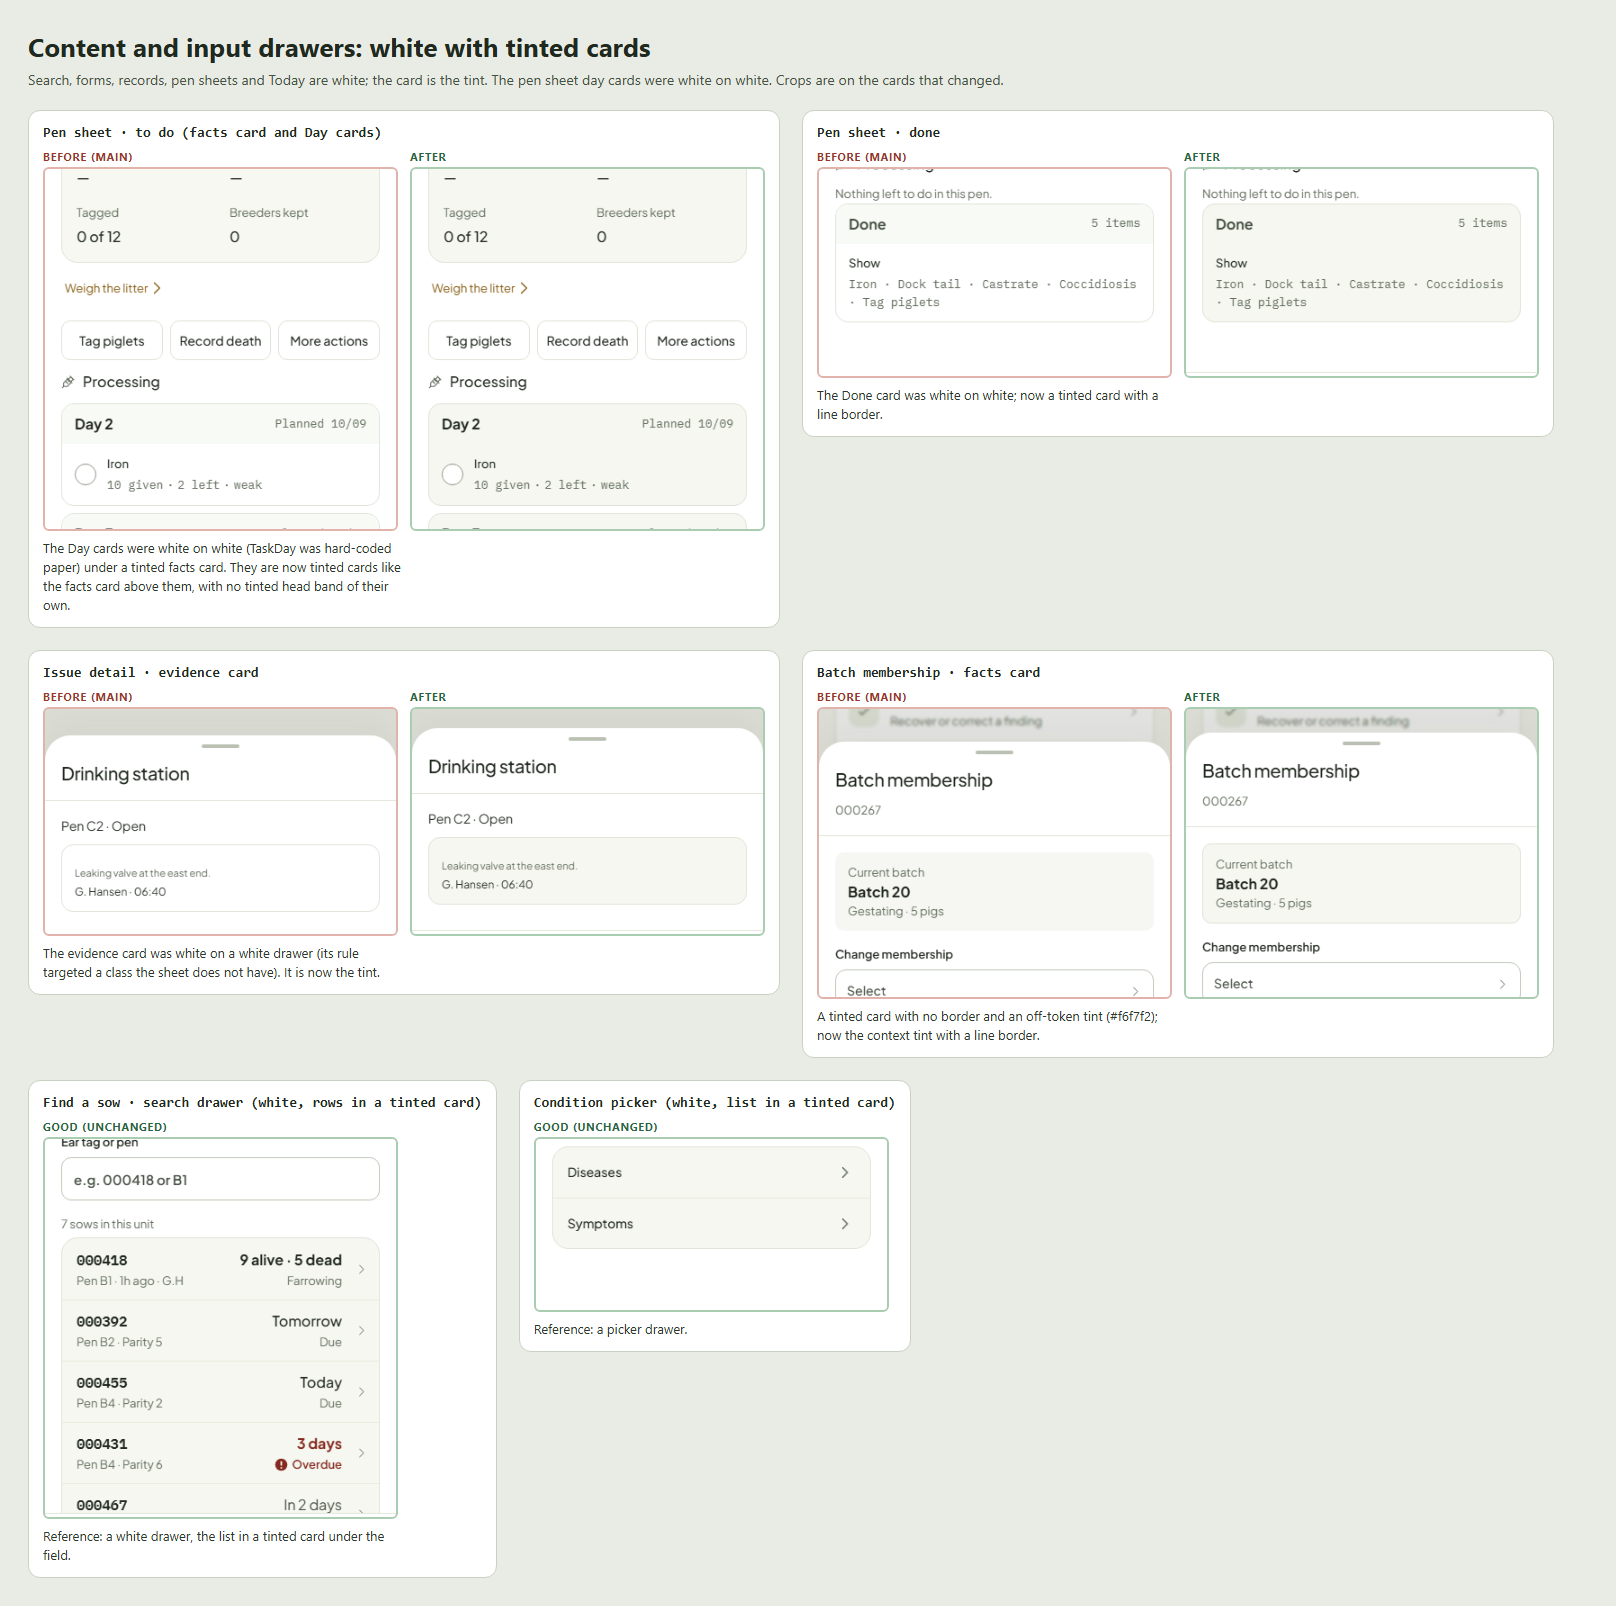
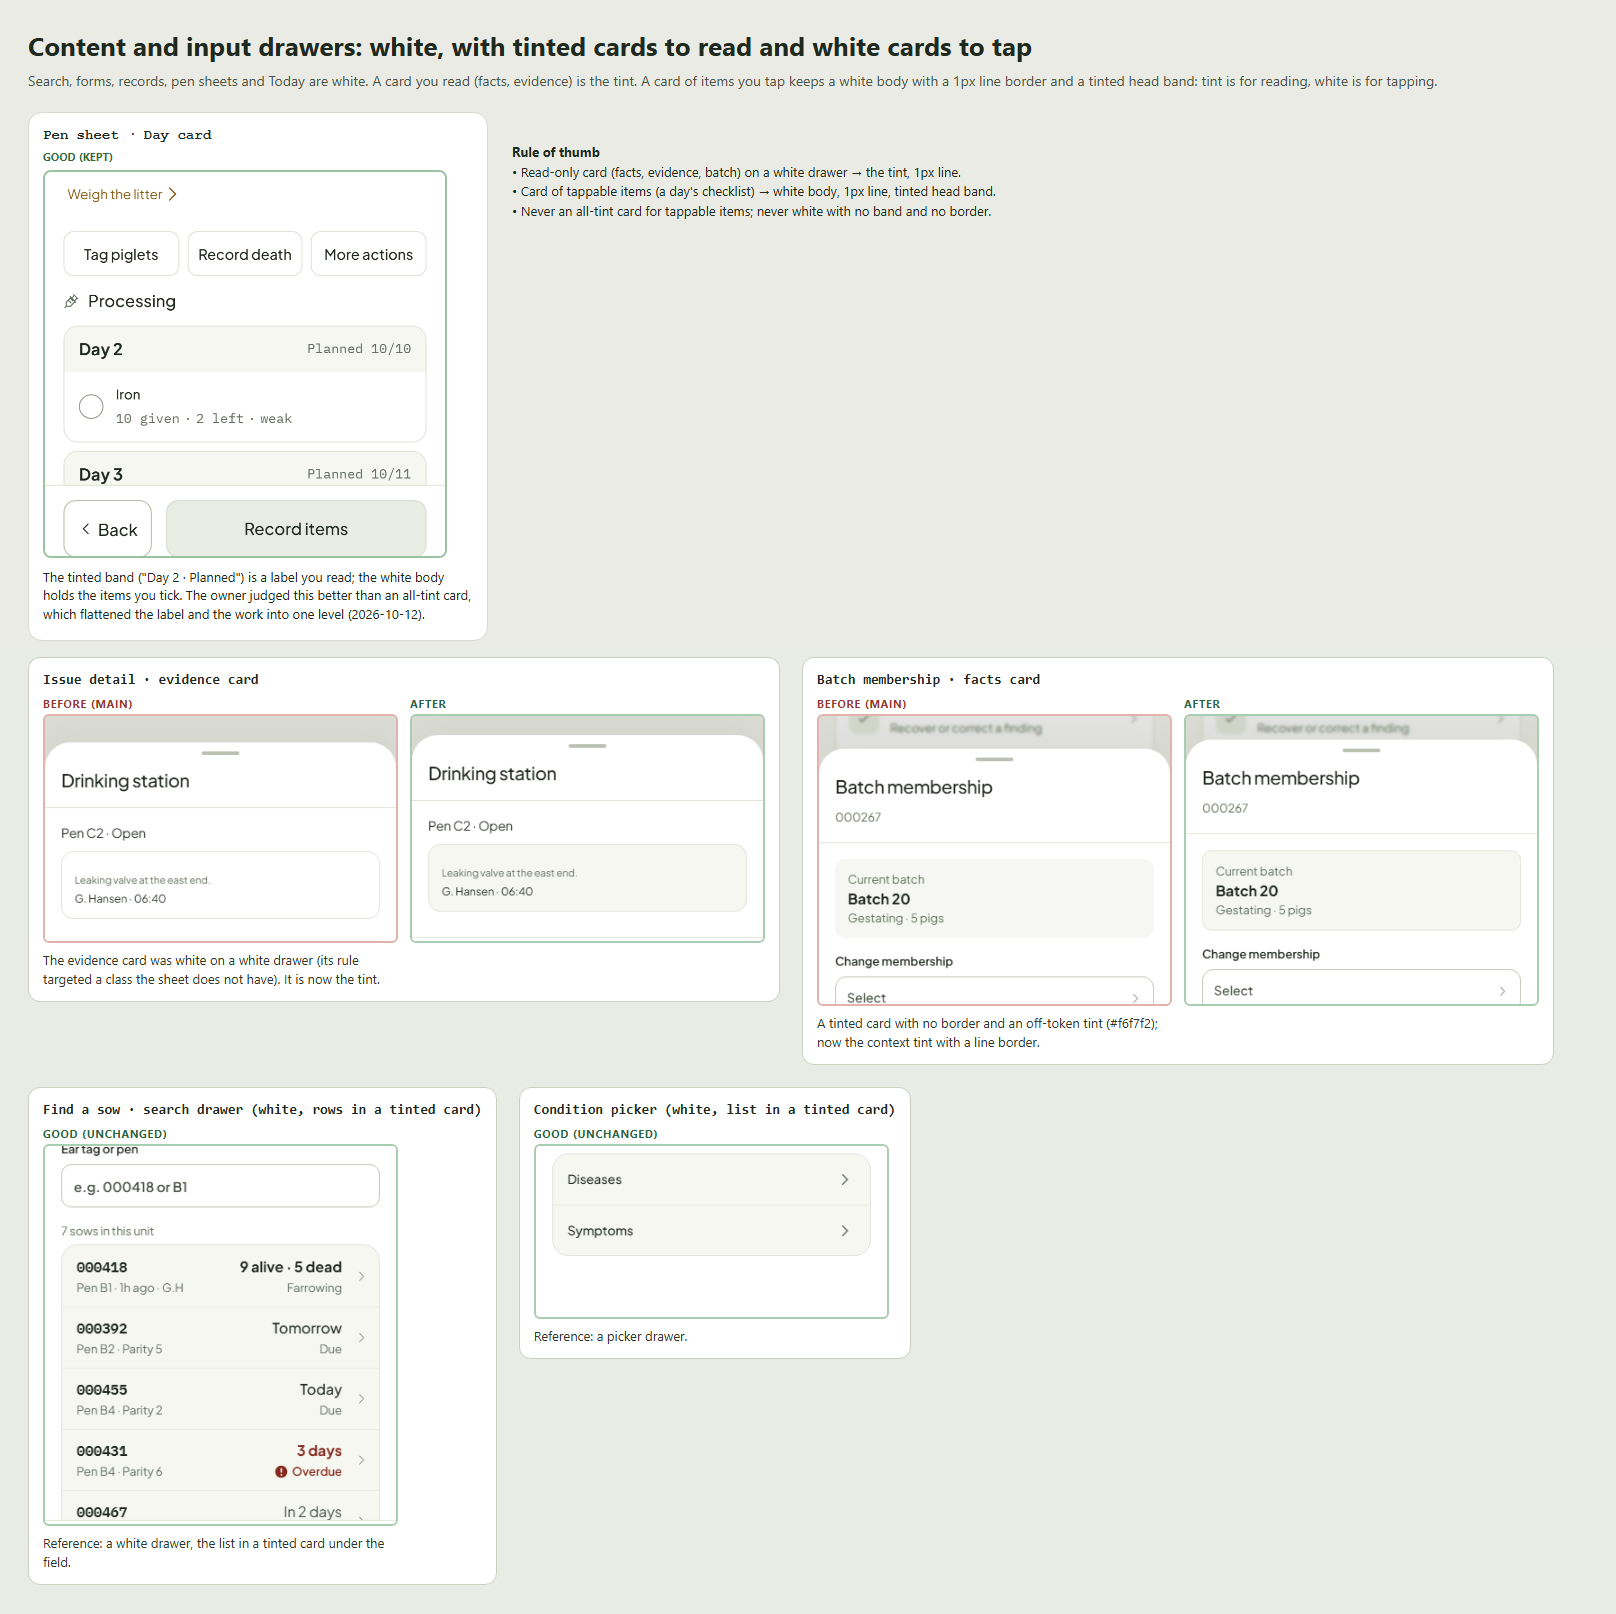
Keep the Day card's tinted band over a white body; rule 6: tint is for reading, white is for tapping
The owner judged the all-tint Day card dull: it flattened the label and the work into one level. TaskDay returns to its original look; SURFACES.md gains rule 6 and the board shows the Day card as the kept example.

diff --git a/ux/design-system/components/task-skeleton.css b/ux/design-system/components/task-skeleton.css
@@ -219,9 +219,10 @@
 .tk-receipt-title { margin: 0; font: 600 var(--type-button-size)/1.5 var(--font-sans); color: var(--ink); }
 .tk-receipt-meta { margin: 5px 0 0; font: var(--type-description-size)/1.2 var(--font-sans); color: var(--muted); }
 
-/* TaskDay: the day card — a head (bold day, mono status) on the card's own colour, rows that are doors (mark, title, mono meta), an act. */
-.tk-day { overflow: hidden; border: 1px solid var(--line); border-radius: var(--radius-inset); background: var(--st-panel-bg); }
-.tk-day-head { display: flex; align-items: center; justify-content: space-between; gap: var(--space-row-y); padding: var(--space-row-y) var(--space-row-x); background: transparent; }
+/* TaskDay: the day card — a tinted band (bold day, mono status) you read, over a white body of rows you tap (doors: mark, title, mono meta), an act.
+   It keeps this look in every context: a card of tappable items is white with a tinted head band (SURFACES.md, "tint is for reading, white is for tapping"). */
+.tk-day { overflow: hidden; border: 1px solid var(--line); border-radius: var(--radius-inset); background: var(--paper); }
+.tk-day-head { display: flex; align-items: center; justify-content: space-between; gap: var(--space-row-y); padding: var(--space-row-y) var(--space-row-x); background: var(--app-background); }
 .tk-day-head > strong { font: 700 var(--type-row-title-size)/1.25 var(--font-sans); color: var(--ink); }
 .tk-day-head > span { font: var(--type-meta-size)/1.3 var(--font-mono); color: var(--muted); }
 

diff --git a/ux/design-system/SURFACES.md b/ux/design-system/SURFACES.md
@@ -10,6 +10,10 @@ Owner ruling, 2026-10-12. **Read this before you build or change any screen, she
 4. **Current or selected is ink:** a ✓, a checkbox, or an ink ring. No green fill and no inset marker bar, anywhere.
 5. **One tint.** `inset`, `surface` and `ground` are aliases of `app-background`; there is no second or third near-white. A stray hex tint (`#f6f7f2`, `#fbfcf8`, `#f8f9f3`…) is a bug.
 
+6. **Tint is for reading, white is for tapping.** Inside a white content drawer, a card you only read (facts, evidence, a batch) is the tint. A card that holds items you tap (a day's checklist) keeps a **white body** with a 1px `line` border and a **tinted head band** for its title, so the label and the work sit on two levels (owner, 2026-10-12, after an all-tint Day card read as dull). Never make a card of tappable items all tint.
+
+Open question (owner to decide): lists of tappable rows in input drawers (Find a sow results, picker lists, the allocation choices) are a tinted card today. Rule 6 suggests white; both versions will be mocked before this changes.
+
 Green means done, recorded or synced, nothing else. Amber and red washes mean status and are never a card's resting colour.
 
 ### Which context is my screen?
@@ -30,7 +34,7 @@ Screens choose a context and never paint a panel colour. The context sets `--st-
 | Part | Page and menu drawer (tint base) | Content or input drawer (white base) |
 |---|---|---|
 | Card | `paper`, 1px `line`, `radius-panel` | `app-background`, 1px `line`, `radius-panel` |
-| Group head band (inside a card) | the card's own colour, no tint of its own (TaskDay head) | the card's own colour |
+| Group head band (inside a card) | the card's own colour | a card of tappable items (TaskDay): tinted band (`app-background`) over a white body; a read-only card: its own colour |
 | Row divider | `rule` | `rule` |
 | Icon tile | `row-icon-bg` | `row-icon-bg` |
 | Pressed row | `press` (`#f1f5eb`) | `choice-press` (`#eaf0e2`) |
@@ -55,7 +59,7 @@ Each pair is before (red) and after (green), cropped on the part that changed. T
 
 ![Content drawers: tinted facts card and tinted day cards on white, never white on white](surfaces/3-content-drawers.png)
 
-The pen sheet's Day cards were white on white (TaskDay was hard-coded `paper`). They now follow the context: tinted in a content drawer, white on a page. The cropped pairs here are on the Day cards, the part that changed.
+The pen sheet's Day card is the example for rule 6: a tinted band you read over a white body of items you tick, with a 1px border. An all-tint version was tried and rejected by the owner (2026-10-12): it flattened the label and the work into one level. Read-only cards on a white drawer (evidence, batch membership) are the tint.
 
 ### Current, selected and pressed
 
